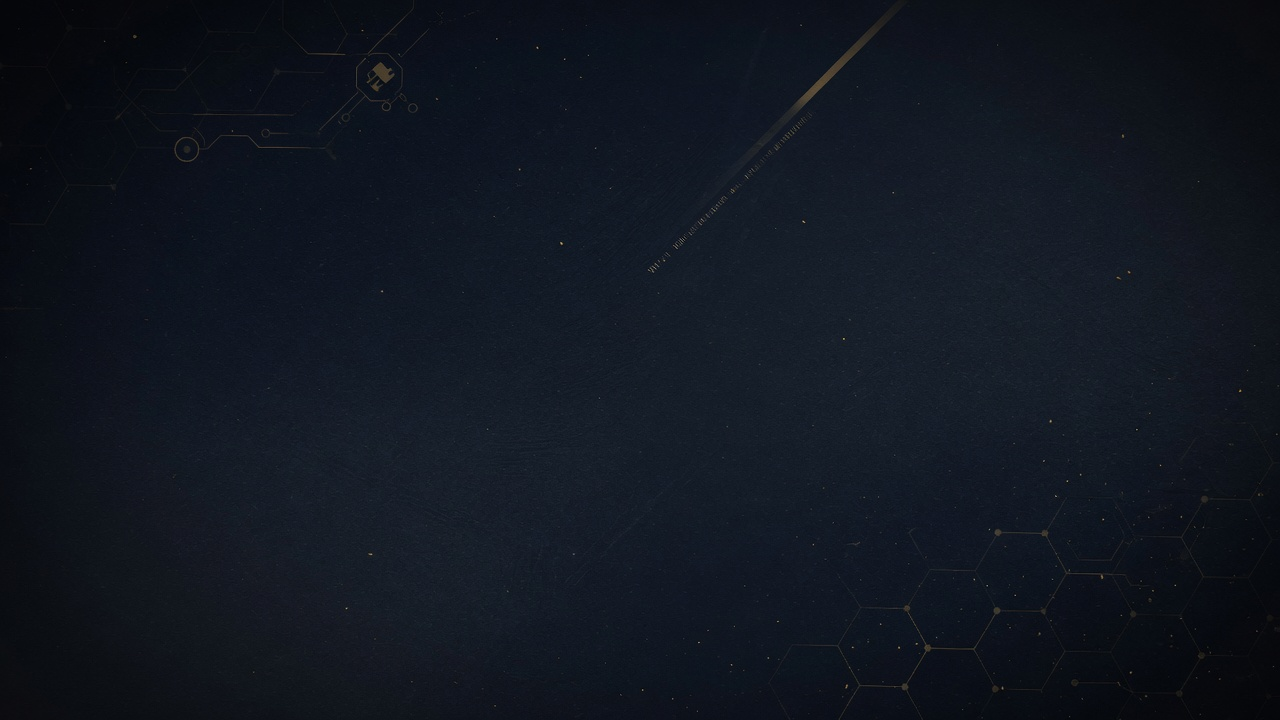
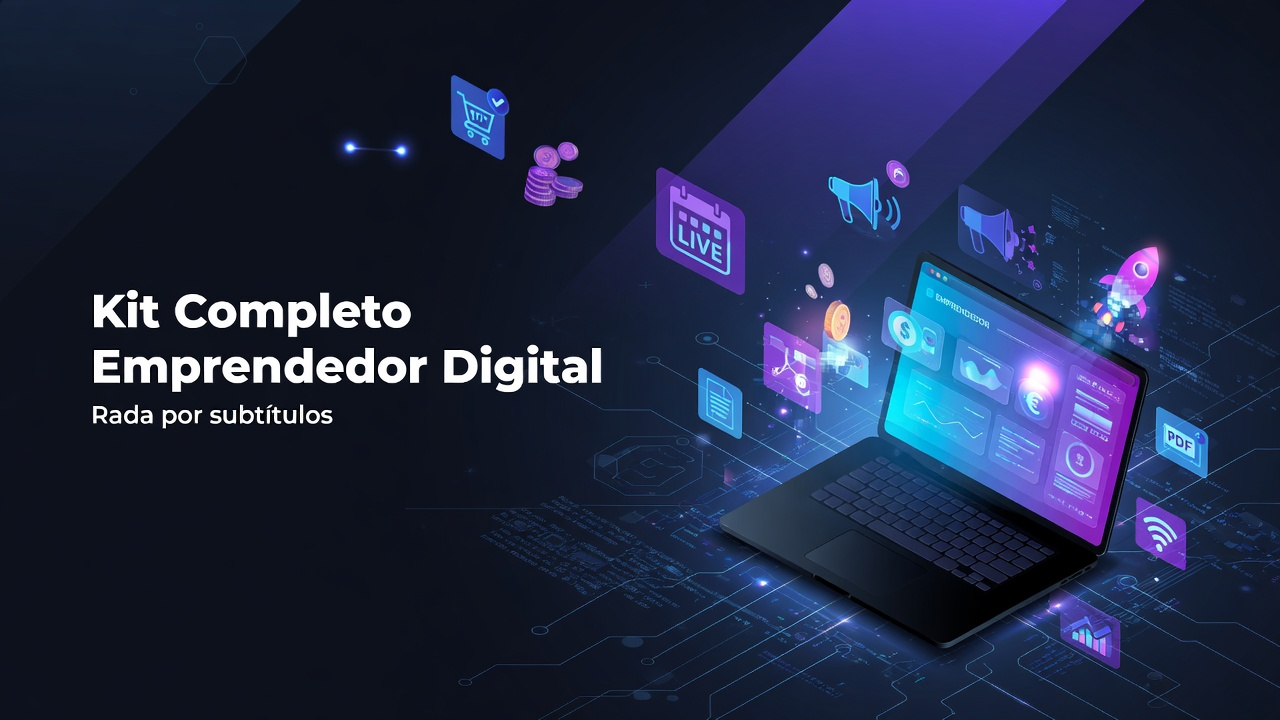
Add files via upload

diff --git a/index.html b/index.html
@@ -938,8 +938,9 @@
   .product-card-guia .product-features li::before { background: var(--blue-300, #5fa8e0); }
 
   .product-card-kit {
+    background-color: #042c53;
     background-image:
-      linear-gradient(to top, rgba(4,44,83,0.95) 0%, rgba(4,44,83,0.85) 40%, rgba(0,0,0,0.7) 100%),
+      linear-gradient(to top, rgba(4,44,83,0.98) 0%, rgba(4,44,83,0.9) 30%, rgba(0,0,0,0.75) 100%),
       url('assets/elegant/bg-kit.jpg');
     background-size: cover;
     background-position: center;